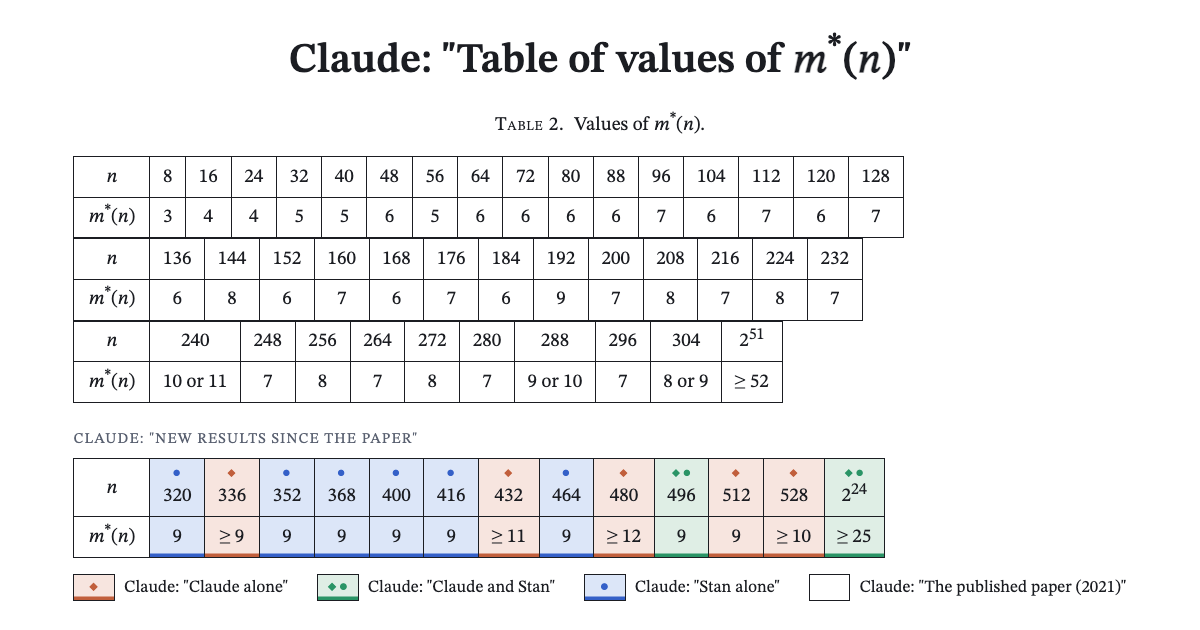
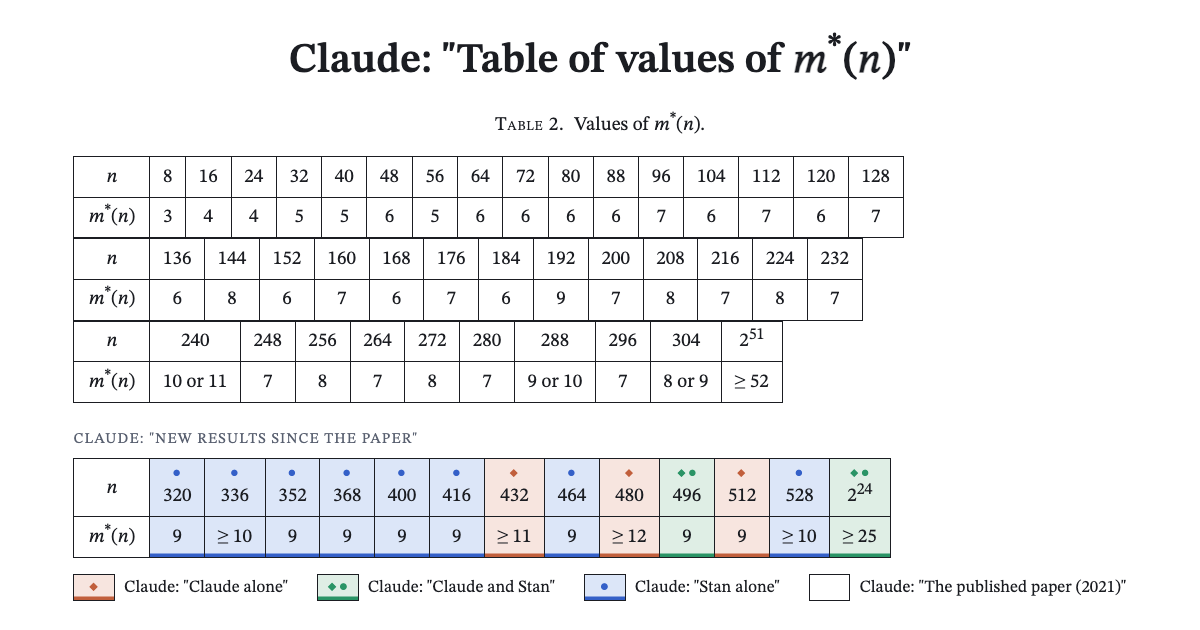
Translate/copyedit

Changed region(s): [[0.1542, 0.7238, 0.74, 0.9048], [0.2775, 0.8444, 0.3392, 0.8746]]

diff --git a/index.html b/index.html
@@ -3,25 +3,20 @@
 <head>
 <meta charset="utf-8">
 <meta name="viewport" content="width=device-width, initial-scale=1, viewport-fit=cover">
-<!-- TODO: page title; names the page as the table of values of m*(n) -->
-<title>Claude: "Table of values of m*(n)"</title>
-<!-- TODO: link-preview and search description; says this is Table 2 of the Buhler-Golan-Pratt-Wagon paper extended with new results -->
-<meta name="description" content='Claude: "Table 2 of the paper by Buhler, Golan, Pratt and Wagon (Math. Comp. 90, 2021), extended with new results."'>
+<title>Table of values of m*(n)</title>
+<meta name="description" content='Table 2 of the paper by Buhler, Golan, Pratt and Wagon (Math. Comp. 90, 2021), extended with new results'>
 <link rel="icon" href="favicon.ico" sizes="16x16 32x32 48x48">
 <link rel="icon" href="favicon.svg" type="image/svg+xml">
 <link rel="apple-touch-icon" href="apple-touch-icon.png">
 <meta property="og:type" content="website">
 <meta property="og:site_name" content="dreev.es">
 <meta property="og:url" content="https://equipow.dreev.es/">
-<!-- TODO: link-preview title; the same as the page title -->
-<meta property="og:title" content='Claude: "Table of values of m*(n)"'>
-<!-- TODO: link-preview description; the same as the description above -->
-<meta property="og:description" content='Claude: "Table 2 of the paper by Buhler, Golan, Pratt and Wagon (Math. Comp. 90, 2021), extended with new results."'>
+<meta property="og:title" content='Table of values of m*(n)'>
+<meta property="og:description" content='Table 2 of the paper by Buhler, Golan, Pratt and Wagon (Math. Comp. 90, 2021), extended with new results'>
 <meta property="og:image" content="https://equipow.dreev.es/preview.png">
 <meta property="og:image:width" content="1200">
 <meta property="og:image:height" content="630">
-<!-- TODO: link-preview image description; says the image shows the paper's table of m*(n) up to n = 304 and 2^51, then a colored block of new results from 320 to 2^24 -->
-<meta property="og:image:alt" content='Claude: "The paper&apos;s table of m*(n) up to n = 304 and 2^51, then a colored block of new results from 320 to 2^24"'>
+<meta property="og:image:alt" content='The paper&apos;s table of m*(n) up to n = 304 and 2^51, then new results from 320 to 2^24'>
 <meta name="twitter:card" content="summary_large_image">
 <meta name="twitter:site" content="@dreev">
 <link rel="preconnect" href="https://fonts.googleapis.com">
@@ -244,12 +239,9 @@ footer {
 <main>
 
 <header>
-  <!-- TODO: page heading; names the page as the table of values of m*(n) -->
-  <h1>Claude: "Table of values of <i>m</i><sup>*</sup>(<i>n</i>)"</h1>
-  <!-- TODO: subtitle; says this is Table 2 of the Buhler–Golan–Pratt–Wagon paper (Math. Comp. 90, 2021) with new results added -->
-  <p class="lede">Claude: "Table 2 of the paper by Buhler, Golan, Pratt and Wagon (<i>Math. Comp.</i> 90, 2021), extended with new results."</p>
-  <!-- TODO: defines m*(n): the largest m such that {1, …, n} splits into two sets whose k-th power sums agree for every k = 0, …, m − 1 -->
-  <p class="lede">Claude: "<i>m</i><sup>*</sup>(<i>n</i>) is the largest number <i>m</i> such that {1, …, <i>n</i>} can be split into two parts whose power sums are equal for every exponent <span class="nw"><i>k</i> = 0, …, <i>m</i> − 1</span>."</p>
+  <h1>Table of values of <i>m</i><sup>*</sup>(<i>n</i>)</h1>
+  <p class="lede">Table 2 of the paper by Buhler, Golan, Pratt and Wagon (<i>Math. Comp.</i> 90, 2021), extended with new results.</p>
+  <p class="lede"><i>m</i><sup>*</sup>(<i>n</i>) is the largest number <i>m</i> such that {1, …, <i>n</i>} can be split into two parts whose power sums are equal for every exponent <span class="nw"><i>k</i> = 0, …, <i>m</i> − 1</span>.</p>
 </header>
 
 <figure>
@@ -273,60 +265,54 @@ footer {
     </div>
 
     <div class="new-block">
-      <!-- TODO: label for the fourth block; says these are new results found since the paper -->
-      <p class="block-label">Claude: "New results since the paper"</p>
+      <p class="block-label">New results since the paper</p>
       <div class="scroll">
         <!-- Cell titles reuse the legend's labels below -->
         <table class="block">
-          <tr class="ns"><th scope="row"><i>n</i></th><td class="s" title='Claude: "Stan alone"'>320</td><td class="c" title='Claude: "Claude alone"'>336</td><td class="s" title='Claude: "Stan alone"'>352</td><td class="s" title='Claude: "Stan alone"'>368</td><td class="s" title='Claude: "Stan alone"'>400</td><td class="s" title='Claude: "Stan alone"'>416</td><td class="c" title='Claude: "Claude alone"'>432</td><td class="s" title='Claude: "Stan alone"'>464</td><td class="c" title='Claude: "Claude alone"'>480</td><td class="j" title='Claude: "Claude and Stan"'>496</td><td class="c" title='Claude: "Claude alone"'>512</td><td class="c" title='Claude: "Claude alone"'>528</td><td class="j" title='Claude: "Claude and Stan"'>2<sup>24</sup></td></tr>
-          <tr class="vals"><th scope="row"><i>m</i><sup>*</sup>(<i>n</i>)</th><td class="s">9</td><td class="c">≥ 9</td><td class="s">9</td><td class="s">9</td><td class="s">9</td><td class="s">9</td><td class="c">≥ 11</td><td class="s">9</td><td class="c">≥ 12</td><td class="j">9</td><td class="c">9</td><td class="c">≥ 10</td><td class="j">≥ 25</td></tr>
+          <tr class="ns"><th scope="row"><i>n</i></th><td class="s" title='Stan alone'>320</td><td class="s" title='Stan alone'>336</td><td class="s" title='Stan alone'>352</td><td class="s" title='Stan alone'>368</td><td class="s" title='Stan alone'>400</td><td class="s" title='Stan alone'>416</td><td class="c" title='Claude alone'>432</td><td class="s" title='Stan alone'>464</td><td class="c" title='Claude alone'>480</td><td class="j" title='Claude and Stan'>496</td><td class="c" title='Claude alone'>512</td><td class="s" title='Stan alone'>528</td><td class="j" title='Claude and Stan'>2<sup>24</sup></td></tr>
+          <tr class="vals"><th scope="row"><i>m</i><sup>*</sup>(<i>n</i>)</th><td class="s">9</td><td class="s">≥ 10</td><td class="s">9</td><td class="s">9</td><td class="s">9</td><td class="s">9</td><td class="c">≥ 11</td><td class="s">9</td><td class="c">≥ 12</td><td class="j">9</td><td class="c">9</td><td class="s">≥ 10</td><td class="j">≥ 25</td></tr>
         </table>
       </div>
     </div>
   </div>
 
   <ul class="legend">
-    <!-- TODO: legend label for orange; results found by Claude alone -->
-    <li><span class="key c" aria-hidden="true">◆</span>Claude: "Claude alone"</li>
-    <!-- TODO: legend label for green; joint work of Claude and Stan -->
-    <li><span class="key j" aria-hidden="true">◆●</span>Claude: "Claude and Stan"</li>
-    <!-- TODO: legend label for blue; results from Stan alone -->
-    <li><span class="key s" aria-hidden="true">●</span>Claude: "Stan alone"</li>
-    <!-- TODO: legend label for uncolored cells; values from the published paper (2021) -->
-    <li><span class="key" aria-hidden="true"></span>Claude: "The published paper (2021)"</li>
+    <li><span class="key c" aria-hidden="true">◆</span>Claude alone</li>
+    <li><span class="key j" aria-hidden="true">◆●</span>Claude and Stan</li>
+    <li><span class="key s" aria-hidden="true">●</span>Stan alone</li>
+    <li><span class="key" aria-hidden="true"></span>The published paper (2021)</li>
   </ul>
 </figure>
 
 <section class="remarks">
-  <!-- TODO: heading for the remarks; says where each new entry comes from -->
-  <h2>Claude: "Where the new results come from"</h2>
+  <h2>Where the new results come from</h2>
   <ul>
     <li class="s">
       <span class="mk" aria-hidden="true">●</span>
       <p class="entry"><i>n</i> = 320, 352, 368, 400, 416, 464: &nbsp;<span class="nw"><i>m</i><sup>*</sup> = 9</span></p>
-      <!-- TODO: says Stan found the order-9 examples, and order 10 is ruled out by the paper's Proposition 4.3 at p = 3 -->
-      <p>Claude: "Examples of order 9 found by Stan. Order 10 is ruled out by the paper's Proposition 4.3 <span class="nw">(<i>p</i> = 3)</span>."</p>
+      <p>Examples of order 9 found by Stan. Order 10 is ruled out by the paper's Proposition 4.3 <span class="nw">(<i>p</i> = 3)</span>.</p>
       <p class="code">
-        <!-- TODO: label for p320, a second order-9 example of length 320 that Claude found independently -->
-        <span>Claude: "<i>p</i><sub>320</sub>, a second example, found independently by Claude <span class="nw">(<i>m</i> = 9)</span>:"</span>
+        <span><i>p</i><sub>320</sub>, a second example, found independently by Claude <span class="nw">(<i>m</i> = 9)</span>:</span>
         <code>B24B649ED92CD2C36496CB2DB6295D974138BA41</code>
       </p>
     </li>
-    <li class="c">
-      <span class="mk" aria-hidden="true">◆</span>
-      <p class="entry"><i>n</i> = 336: &nbsp;<span class="nw"><i>m</i><sup>*</sup> ≥ 9</span></p>
-      <!-- TODO: says Claude found an antisymmetric example; it is the second part of the 528 example below -->
-      <p>Claude: "An antisymmetric example found by Claude; it is the second part of the 528 example below."</p>
+    <li class="s">
+      <span class="mk" aria-hidden="true">●</span>
+      <p class="entry"><i>n</i> = 336: &nbsp;<span class="nw"><i>m</i><sup>*</sup> ≥ 10</span></p>
+      <p>An example of order 10 that Stan had before Claude's work; it is not in the paper.</p>
       <p class="code">
-        <span><i>p</i><sub>336</sub> <span class="nw">(<i>m</i> = 9)</span>:</span>
+        <span>Stan's example <span class="nw">(<i>m</i> = 10)</span>:</span>
+        <code>C87695B43E0ED258AB29C7793D8521DB227C0B746D</code>
+      </p>
+      <p class="code">
+        <span><i>p</i><sub>336</sub>, an antisymmetric example found independently by Claude; it is the second part of the 528 example below <span class="nw">(<i>m</i> = 9)</span>:</span>
         <code>9C5479E2669C97071E731A62EBC06F28E87B4961DF</code>
       </p>
     </li>
     <li class="c">
       <span class="mk" aria-hidden="true">◆</span>
       <p class="entry"><i>n</i> = 432: &nbsp;<span class="nw"><i>m</i><sup>*</sup> ≥ 11</span></p>
-      <!-- TODO: says Claude found an antisymmetric order-11 example; Stan also showed order 10 -->
-      <p>Claude: "An antisymmetric example of order 11 found by Claude. Stan also showed order 10."</p>
+      <p>An antisymmetric example of order 11 found by Claude. Stan also showed order 10.</p>
       <p class="code">
         <span><i>p</i><sub>432</sub> <span class="nw">(<i>m</i> = 11)</span>:</span>
         <code>5A56B0EE234E8794ADE3D0C384F72A5C63A8BD65035EF015B78B46</code>
@@ -335,8 +321,7 @@ footer {
     <li class="c">
       <span class="mk" aria-hidden="true">◆</span>
       <p class="entry"><i>n</i> = 480: &nbsp;<span class="nw"><i>m</i><sup>*</sup> ≥ 12</span></p>
-      <!-- TODO: says Claude found a symmetric order-12 example -->
-      <p>Claude: "A symmetric example of order 12 found by Claude."</p>
+      <p>A symmetric example of order 12 found by Claude.</p>
       <p class="code">
         <span><i>p</i><sub>480</sub> <span class="nw">(<i>m</i> = 12)</span>:</span>
         <code>B0CBC94F1E2C68D1E3A6371C357C4B1347952BB968236CF6C82CD9CE01F3</code>
@@ -345,20 +330,17 @@ footer {
     <li class="j">
       <span class="mk" aria-hidden="true">◆●</span>
       <p class="entry"><i>n</i> = 496: &nbsp;<span class="nw"><i>m</i><sup>*</sup> = 9</span></p>
-      <!-- TODO: says Stan found the order-9 example; order 10 is ruled out by the residue condition mod 27, by the same argument as for 512, and the solvers CP-SAT and SCIP agree -->
-      <p>Claude: "An example of order 9 found by Stan. Order 10 is ruled out by the residue condition mod 27, by the same argument as for 512; the solvers CP-SAT and SCIP agree."</p>
+      <p>An example of order 9 found by Stan. Order 10 is ruled out by the residue condition mod 27, by the same argument as for 512; the solvers CP-SAT and SCIP agree.</p>
     </li>
     <li class="c">
       <span class="mk" aria-hidden="true">◆</span>
       <p class="entry"><i>n</i> = 512: &nbsp;<span class="nw"><i>m</i><sup>*</sup> = 9</span></p>
-      <!-- TODO: says the Thue–Morse polynomial τ9 has order 9, and order 10 is ruled out by the residue conditions mod 3, 9 and 27 -->
-      <p>Claude: "The Thue–Morse polynomial τ<sub>9</sub> has order 9. Order 10 is ruled out by the residue conditions mod 3, 9 and 27."</p>
+      <p>The Thue–Morse polynomial τ<sub>9</sub> has order 9. Order 10 is ruled out by the residue conditions mod 3, 9 and 27.</p>
     </li>
-    <li class="c">
-      <span class="mk" aria-hidden="true">◆</span>
+    <li class="s">
+      <span class="mk" aria-hidden="true">●</span>
       <p class="entry"><i>n</i> = 528: &nbsp;<span class="nw"><i>m</i><sup>*</sup> ≥ 10</span></p>
-      <!-- TODO: says Claude found the example by joining an order-9 example of length 192 to an antisymmetric order-9 piece of length 336, chosen so that the 9th power sums of the two cancel -->
-      <p>Claude: "An example found by Claude by joining an example of length 192 and order 9 to an antisymmetric piece of length 336 and order 9, chosen so that their 9th power sums cancel."</p>
+      <p>Stan had an example of order 10 before Claude's work. Claude found another independently, by joining an example of length 192 and order 9 to an antisymmetric piece of length 336 and order 9, chosen so that their 9th power sums cancel.</p>
       <p class="code">
         <span><i>f</i> = <i>p</i><sub>192</sub> ∨ <i>p</i><sub>336</sub>; &nbsp;<i>p</i><sub>192</sub> <span class="nw">(<i>m</i> = 9)</span>:</span>
         <code>C1BE1E21CD63D295A7887A59</code>
@@ -367,11 +349,9 @@ footer {
     <li class="j">
       <span class="mk" aria-hidden="true">◆●</span>
       <p class="entry"><i>n</i> = 2<sup>24</sup>: &nbsp;<span class="nw"><i>m</i><sup>*</sup> ≥ 25</span></p>
-      <!-- TODO: says this is the joint construction 2^24 = 320²·112 + 432·48·2⁸, i.e. f = (p320 # p320 # p112) ∨ (p432 # p48 # τ8), and that it gives m*(2^k) ≥ k + 1 for every k ≥ 24 -->
-      <p>Claude: "Joint construction: <span class="nw">2<sup>24</sup> = 320<sup>2</sup>·112 + 432·48·2<sup>8</sup></span>, that is, <span class="nw"><i>f</i> = (<i>p</i><sub>320</sub> # <i>p</i><sub>320</sub> # <i>p</i><sub>112</sub>)</span> <span class="nw">∨ (<i>p</i><sub>432</sub> # <i>p</i><sub>48</sub> # τ<sub>8</sub>)</span>. Hence <span class="nw"><i>m</i><sup>*</sup>(2<sup><i>k</i></sup>) ≥ <i>k</i> + 1</span> for every <span class="nw"><i>k</i> ≥ 24</span>."</p>
+      <p>Joint construction: <span class="nw">2<sup>24</sup> = 320<sup>2</sup>·112 + 432·48·2<sup>8</sup></span>, that is, <span class="nw"><i>f</i> = (<i>p</i><sub>320</sub> # <i>p</i><sub>320</sub> # <i>p</i><sub>112</sub>)</span> <span class="nw">∨ (<i>p</i><sub>432</sub> # <i>p</i><sub>48</sub> # τ<sub>8</sub>)</span>. Hence <span class="nw"><i>m</i><sup>*</sup>(2<sup><i>k</i></sup>) ≥ <i>k</i> + 1</span> for every <span class="nw"><i>k</i> ≥ 24</span>.</p>
       <p class="code">
-        <!-- TODO: label saying p112 and p48 are the examples from the paper's Table 5 -->
-        <span>Claude: "<i>p</i><sub>112</sub> <span class="nw">(<i>m</i> = 7)</span> and <i>p</i><sub>48</sub> <span class="nw">(<i>m</i> = 6)</span>, from the paper's Table 5:"</span>
+        <span><i>p</i><sub>112</sub> <span class="nw">(<i>m</i> = 7)</span> and <i>p</i><sub>48</sub> <span class="nw">(<i>m</i> = 6)</span>, from the paper's Table 5:</span>
         <code>A5994DB29B45A0</code>
         <code>C27D8C</code>
       </p>
@@ -380,17 +360,12 @@ footer {
 </section>
 
 <footer>
-  <!-- TODO: says the first three blocks are copied from Table 2 of the published paper without change -->
-  <p>Claude: "The first three blocks are copied from Table 2 of the published paper, without change."</p>
-  <!-- TODO: explains the hex codes: the paper's Table 5 convention (left half of the signs, 1 = +1 and 0 = −1, the rest by (−1)^m symmetry) -->
-  <p>Claude: "The hex codes follow the paper's Table 5 convention: the left half of the signs <span class="nw">(1 = +1, 0 = −1)</span>, then the rest by <span class="nw">(−1)<sup><i>m</i></sup></span> symmetry."</p>
-  <!-- TODO: defines the operations: # is the expanded product, f # g = f(x)·g(x^(n_f)) where n_f is the length of f; ∨ is the join -->
-  <p>Claude: "The sign # denotes the expanded product, <span class="nw"><i>f</i> # <i>g</i> = <i>f</i>(<i>x</i>)·<i>g</i>(<i>x</i><sup><i>n<sub>f</sub></i></sup>)</span>, where <i>n<sub>f</sub></i> is the length of <i>f</i>. The sign ∨ denotes the join."</p>
-  <!-- TODO: says every example given here with a code was checked with exact integer power sums -->
-  <p>Claude: "Every example whose code is given here was checked with exact integer power sums."</p>
-  <!-- TODO: says Stan's examples at 352, 368, 400, 416, 464 and 496 have not been re-checked here -->
-  <p>Claude: "Stan's examples at lengths 352, 368, 400, 416, 464 and 496 were not re-checked here."</p>
-  <p><a href="https://github.com/dreeves/equipow">github.com/dreeves/equipow</a></p>
+  <p>The first three blocks are copied from Table 2 of the published paper.</p>
+  <p>The hex codes follow the paper's Table 5 convention: the left half of the signs <span class="nw">(1 = +1, 0 = −1)</span>, then the rest by <span class="nw">(−1)<sup><i>m</i></sup></span> symmetry.</p>
+  <p>The sign # denotes the expanded product, <span class="nw"><i>f</i> # <i>g</i> = <i>f</i>(<i>x</i>)·<i>g</i>(<i>x</i><sup><i>n<sub>f</sub></i></sup>)</span>, where <i>n<sub>f</sub></i> is the length of <i>f</i>. The sign ∨ denotes the join.</p>
+  <p>Every example whose code is given here was checked by Claude with exact integer power sums.</p>
+  <p>Stan's examples at lengths 352, 368, 400, 416, 464 and 496 were not re-checked here.</p>
+  <p><a href="https://github.com/dreeves/equipow">Source</a> &amp; <a href="https://equipow.dreev.es/sourcery.html">Sourcery</a></p>
 </footer>
 
 </main>
